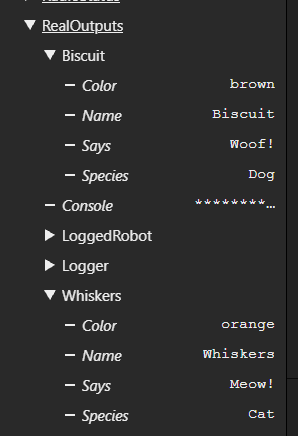
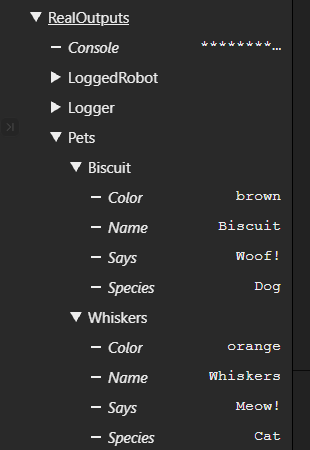
Use a Pets-folder screenshot and highlight deleting old log lines

diff --git a/modules/score-predictor/README.md b/modules/score-predictor/README.md
@@ -16,7 +16,7 @@ method that returns what it says. You'll send each pet's info to AdvantageScope.
 each pet speak when you press a controller button. When you're done, AdvantageScope will show
 something like this:
 
-![AdvantageScope's RealOutputs list, showing the Color, Name, Says, and Species values for Biscuit the dog and Whiskers the cat](images/petInfoAdvantagescope.png)
+![AdvantageScope's RealOutputs list, with a Pets folder showing the Color, Name, Says, and Species values for Biscuit the dog and Whiskers the cat](images/petInfoAdvantagescope.png)
 
 ## Where does my code go?
 
@@ -271,7 +271,10 @@ instead of `cat`, and `"Pets/" +` at the start of the key. For the cat it makes
 `"Pets/Whiskers/Name"`. Replace the `TODO` with three more lines that do the same for
 `Color`, `Species`, and `Says`.
 
-Then delete the logging lines from steps 4 and 5. The loop logs every pet now.
+> **Don't skip this:** delete the logging lines from steps 4 and 5, all eight of them: the
+> four under `// Log info about your cat` and the four under `// Log info about your dog`.
+> The loop logs every pet now. Keep the lines that create `cat` and `dog`, because the array
+> needs them.
 
 - `pet` holds the next pet each time around the loop: first your cat, then your dog.
 - `pet.speak()` runs the `speak()` method of whichever pet it's holding. The cat meows and the
